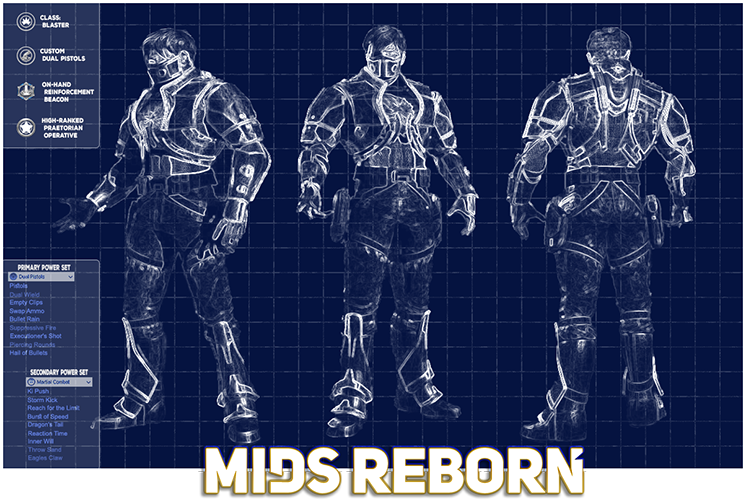
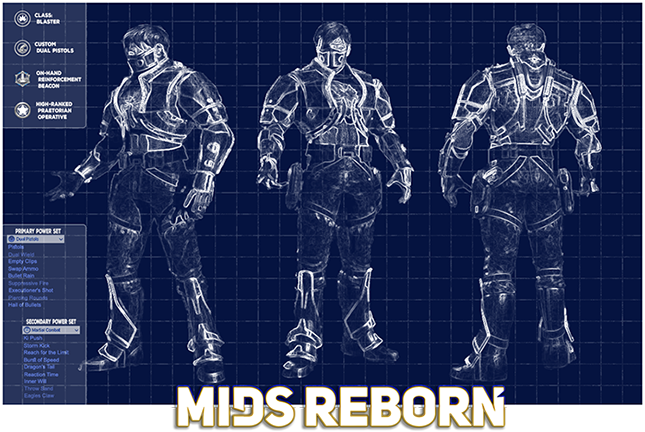
Initializing form transparency Background form made transparent Fixed background image proportions, adjusted form size accordingly

diff --git a/Hero Designer/Forms/frmInitializing.cs b/Hero Designer/Forms/frmInitializing.cs
@@ -1,4 +1,6 @@
 using System;
+using System.Diagnostics;
+using System.Drawing;
 using System.Windows.Forms;
 using Base.IO_Classes;
 
@@ -10,6 +12,7 @@ namespace Hero_Designer.Forms
         {
             InitializeComponent();
             SetStyle(ControlStyles.AllPaintingInWmPaint | ControlStyles.OptimizedDoubleBuffer | ControlStyles.ResizeRedraw | ControlStyles.SupportsTransparentBackColor, true);
+            Label1.Parent = pictureBox1;
             Load += On_Load;
         }
 
@@ -58,6 +61,124 @@ namespace Hero_Designer.Forms
             else
             {
                 tmrOp.Enabled = false;
+            }
+        }
+    }
+
+    // https://stackoverflow.com/questions/5522337/c-sharp-picturebox-transparent-background-doesnt-seem-to-work
+    public class TransparentLabel : Label
+    {
+        public TransparentLabel()
+        {
+            SetStyle(ControlStyles.SupportsTransparentBackColor, true);
+            BackColor = Color.Transparent;
+        }
+
+        protected override CreateParams CreateParams
+        {
+            get
+            {
+                var cp = base.CreateParams;
+                cp.ExStyle |= 0x20; // EX_TRANSPARENT
+                return cp;
+            }
+        }
+
+        protected override void OnPaintBackground(PaintEventArgs e)
+        {
+            // Paint background with underlying graphics from other controls
+            base.OnPaintBackground(e);
+            var g = e.Graphics;
+
+            if (Parent == null) return;
+
+            // Take each control in turn
+            var index = Parent.Controls.GetChildIndex(this);
+            for (var i = Parent.Controls.Count - 1; i > index; i--)
+            {
+                var c = Parent.Controls[i];
+
+                // Check it's visible and overlaps this control
+                if (!c.Bounds.IntersectsWith(Bounds) || !c.Visible) continue;
+                
+                // Load appearance of underlying control and redraw it on this background
+                var bmp = new Bitmap(c.Width, c.Height, g);
+                c.DrawToBitmap(bmp, c.ClientRectangle);
+                g.TranslateTransform(c.Left - Left, c.Top - Top);
+                g.DrawImageUnscaled(bmp, Point.Empty);
+                g.TranslateTransform(Left - c.Left, Top - c.Top);
+                bmp.Dispose();
+            }
+        }
+    }
+
+    public class TransparentPictureBox : Control
+    {
+        private readonly Timer _refresher;
+        private Image _image;
+
+        public TransparentPictureBox()
+        {
+            SetStyle(ControlStyles.SupportsTransparentBackColor, true);
+            SetStyle(ControlStyles.ResizeRedraw, true);
+            SetStyle(ControlStyles.Opaque, false);
+            SetStyle(ControlStyles.OptimizedDoubleBuffer, true);
+            BackColor = Color.Transparent;
+            _refresher = new Timer();
+            _refresher.Tick += TimerOnTick;
+            _refresher.Interval = 50;
+            _refresher.Enabled = true;
+            _refresher.Start();
+        }
+
+        protected override CreateParams CreateParams
+        {
+            get
+            {
+                var cp = base.CreateParams;
+                cp.ExStyle |= 0x20; // EX_TRANSPARENT
+                return cp;
+            }
+        }
+
+        protected override void OnMove(EventArgs e)
+        {
+            RecreateHandle();
+        }
+
+
+        protected override void OnPaint(PaintEventArgs e)
+        {
+            if (_image == null) return;
+
+            e.Graphics.CompositingQuality = System.Drawing.Drawing2D.CompositingQuality.HighQuality;
+            e.Graphics.DrawImage(_image, (Width / 2) - (_image.Width / 2), (Height / 2) - (_image.Height / 2));
+        }
+
+        protected override void OnPaintBackground(PaintEventArgs e)
+        {
+            //Do not paint background
+        }
+
+        //Hack
+        public void Redraw()
+        {
+            RecreateHandle();
+        }
+
+        private void TimerOnTick(object source, EventArgs e)
+        {
+            RecreateHandle();
+            _refresher.Stop();
+        }
+
+        public Image Image
+        {
+            get => _image;
+            set
+            {
+                _image = value;
+                RecreateHandle();
             }
         }
     }

diff --git a/Hero Designer/Forms/frmInitializing.Designer.cs b/Hero Designer/Forms/frmInitializing.Designer.cs
@@ -32,8 +32,9 @@ namespace Hero_Designer.Forms
         private void InitializeComponent()
         {
             this.components = new System.ComponentModel.Container();
-            this.Label1 = new System.Windows.Forms.Label();
+            this.Label1 = new Hero_Designer.Forms.TransparentLabel();
             this.tmrOp = new System.Windows.Forms.Timer(this.components);
+            this.pictureBox1 = new Hero_Designer.Forms.TransparentPictureBox();
             this.SuspendLayout();
             // 
             // Label1
@@ -56,28 +57,39 @@ namespace Hero_Designer.Forms
             this.tmrOp.Interval = 50;
             this.tmrOp.Tick += new System.EventHandler(this.tmrOp_Tick);
             // 
+            // pictureBox1
+            // 
+            this.pictureBox1.BackColor = System.Drawing.Color.Transparent;
+            this.pictureBox1.Image = global::Hero_Designer.Resources.MRB_Concept;
+            this.pictureBox1.Location = new System.Drawing.Point(0, 0);
+            this.pictureBox1.Name = "pictureBox1";
+            this.pictureBox1.Size = new System.Drawing.Size(645, 432);
+            this.pictureBox1.TabIndex = 3;
+            this.pictureBox1.TabStop = false;
+            // 
             // frmInitializing
             // 
             this.AutoScaleDimensions = new System.Drawing.SizeF(6F, 13F);
             this.AutoScaleMode = System.Windows.Forms.AutoScaleMode.Font;
-            this.BackColor = System.Drawing.SystemColors.Control;
-            this.BackgroundImage = global::Hero_Designer.Resources.MRB_Concept;
+            this.BackColor = System.Drawing.Color.Black;
             this.BackgroundImageLayout = System.Windows.Forms.ImageLayout.Stretch;
-            this.ClientSize = new System.Drawing.Size(645, 363);
+            this.ClientSize = new System.Drawing.Size(645, 432);
             this.Controls.Add(this.Label1);
+            this.Controls.Add(this.pictureBox1);
             this.DoubleBuffered = true;
             this.FormBorderStyle = System.Windows.Forms.FormBorderStyle.None;
             this.Name = "frmInitializing";
             this.ShowInTaskbar = false;
             this.StartPosition = System.Windows.Forms.FormStartPosition.CenterScreen;
             this.Text = "frmInitializing";
-            this.TransparencyKey = System.Drawing.Color.Red;
+            this.TransparencyKey = System.Drawing.Color.Black;
             this.ResumeLayout(false);
 
         }
 
         #endregion
-        private Label Label1;
+        private TransparentLabel Label1;
         private Timer tmrOp;
+        private TransparentPictureBox pictureBox1;
     }
 }
